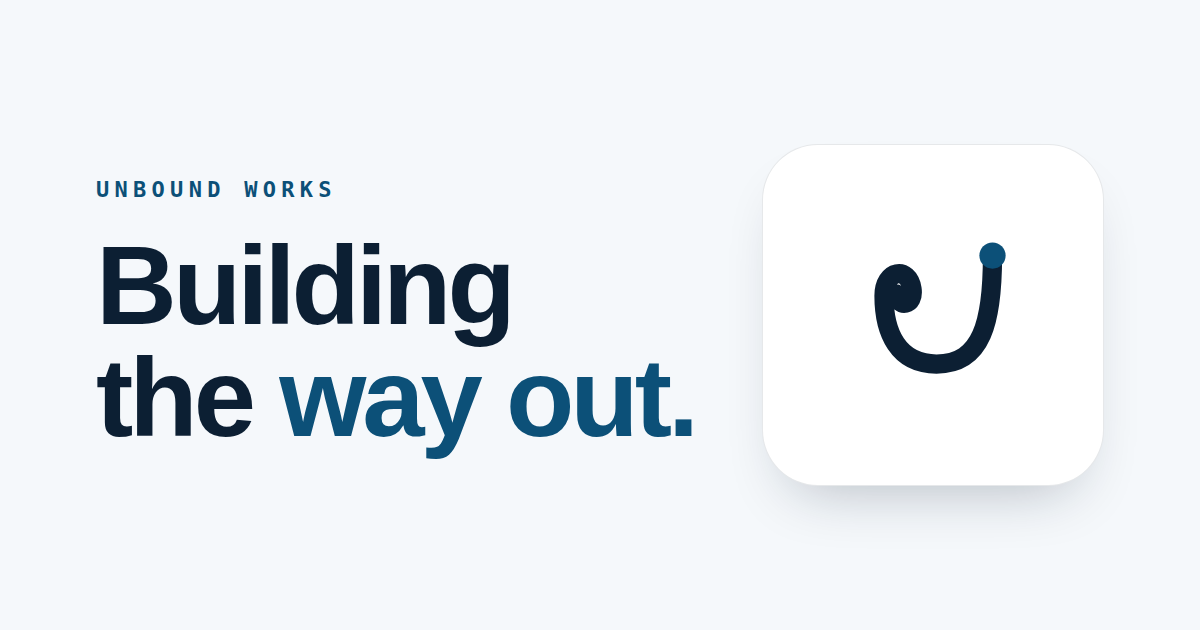
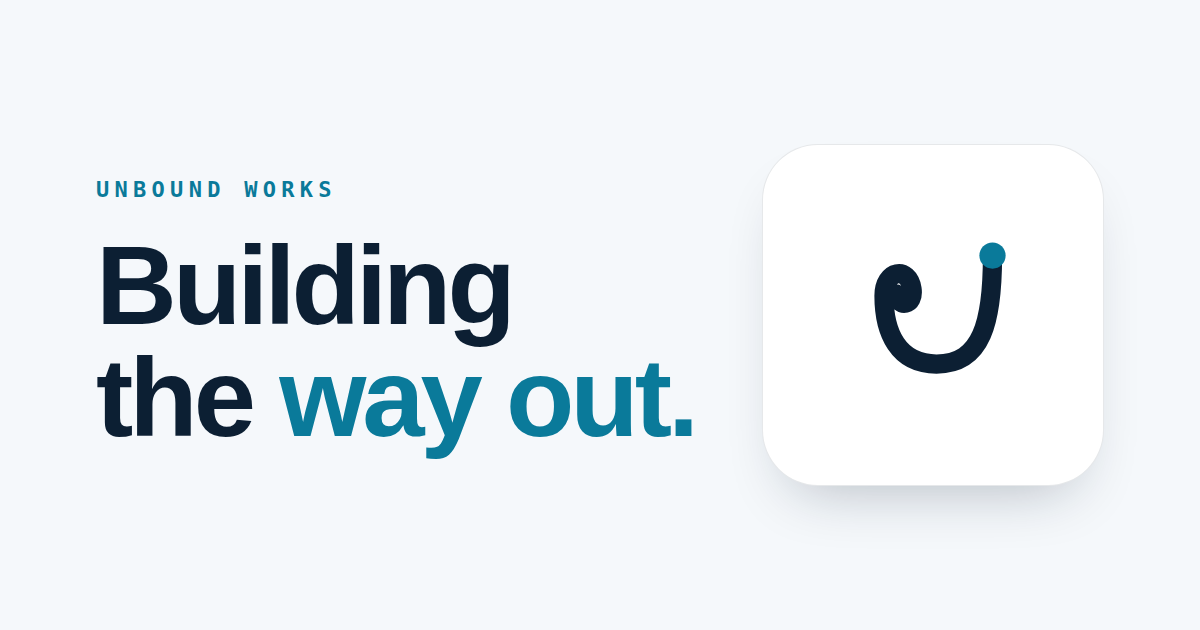
Change accent to rgb(10,122,154)
Claude-Session: https://claude.ai/code/session_01HV6CUxVNmo16z2FbVjRH5F

diff --git a/styles.css b/styles.css
@@ -15,10 +15,10 @@
   --muted:#5A6B80;
 
   /* signal */
-  --accent:#0C5078;        /* medium dark blue */
+  --accent:#0A7A9A;        /* medium dark blue */
   --accent-ink:#FFFFFF;    /* text on accent fills */
-  --accent-2:#0C5078;      /* labels */
-  --accent-d:#093E5D;      /* hover */
+  --accent-2:#0A7A9A;      /* labels */
+  --accent-d:#085F78;      /* hover */
   --shadow:0 24px 48px -28px rgba(12,31,51,.28);
 
   /* lines + radii */
@@ -58,7 +58,7 @@ img,svg{display:block}
 body::before{
   content:"";position:fixed;inset:0;z-index:-1;pointer-events:none;
   background:
-    radial-gradient(620px 620px at 80% 28%,rgba(12,80,120,.10),transparent 64%);
+    radial-gradient(620px 620px at 80% 28%,rgba(10,122,154,.10),transparent 64%);
 }
 
 /* focus visibility */
@@ -178,7 +178,7 @@ h1{font-size:clamp(3.2rem,8.4vw,6.4rem);line-height:.98;letter-spacing:-.03em}
 }
 .cell::before{ /* hover sheen */
   content:"";position:absolute;inset:0;pointer-events:none;opacity:0;
-  background:linear-gradient(130deg,transparent 40%,rgba(12,80,120,.05) 55%,transparent 70%);
+  background:linear-gradient(130deg,transparent 40%,rgba(10,122,154,.05) 55%,transparent 70%);
   transition:opacity .4s var(--ease);
 }
 .cell:hover{transform:translateY(-5px);border-color:var(--hairline-2);box-shadow:var(--shadow)}
@@ -186,7 +186,7 @@ h1{font-size:clamp(3.2rem,8.4vw,6.4rem);line-height:.98;letter-spacing:-.03em}
 .cell h3{font-size:clamp(1.5rem,2.3vw,1.9rem);line-height:1.1;margin-bottom:12px}
 .cell p{color:var(--ink-soft);font-size:1rem;max-width:46ch}
 .c-soft{grid-column:span 3;background:
-  linear-gradient(155deg,rgba(12,80,120,.12),var(--surface) 70%)}
+  linear-gradient(155deg,rgba(10,122,154,.12),var(--surface) 70%)}
 .c-ai{grid-column:span 3}
 .c-ops{grid-column:span 6;background:
   linear-gradient(120deg,var(--surface-2),var(--surface) 60%)}
@@ -209,10 +209,10 @@ h1{font-size:clamp(3.2rem,8.4vw,6.4rem);line-height:.98;letter-spacing:-.03em}
 .cap-media{
   border-radius:var(--r-card);min-height:280px;position:relative;overflow:hidden;
   border:1px solid var(--hairline);
-  background:linear-gradient(150deg,rgba(12,80,120,.14),var(--surface) 72%);
+  background:linear-gradient(150deg,rgba(10,122,154,.14),var(--surface) 72%);
 }
 .cap.flip .cap-media{background:linear-gradient(150deg,var(--surface-2),var(--surface) 70%)}
-.cap-media.alt{background:linear-gradient(150deg,rgba(12,80,120,.07),var(--surface-2) 70%)}
+.cap-media.alt{background:linear-gradient(150deg,rgba(10,122,154,.07),var(--surface-2) 70%)}
 .cap-media .wm{position:absolute;right:-30px;bottom:-50px;width:250px;opacity:.14}
 .cap-media .wm path{fill:none;stroke:var(--ink);stroke-width:22;stroke-linecap:round;stroke-linejoin:round}
 .worklist{list-style:none;margin-top:26px;display:flex;flex-wrap:wrap;gap:10px}
@@ -293,7 +293,7 @@ h1{font-size:clamp(3.2rem,8.4vw,6.4rem);line-height:.98;letter-spacing:-.03em}
 .contact-card h2{font-size:clamp(2.2rem,4.8vw,3.6rem);line-height:1.04}
 .contact-card p{color:rgba(255,255,255,.85);font-size:1.15rem;margin:20px auto 32px;max-width:46ch;font-family:var(--sans)}
 .contact-card .btn-primary{background:#fff;color:var(--accent);font-size:1.02rem;padding:15px 34px}
-.contact-card .btn-primary:hover{background:#E4EEF6}
+.contact-card .btn-primary:hover{background:#E3F1F6}
 .contact-card .mail{display:block;margin-top:24px;font-family:var(--mono);font-size:14px;letter-spacing:.04em;color:rgba(255,255,255,.8)}
 .contact-card .wm{display:none}
 
